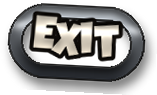
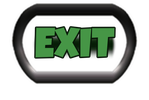
Menus: the game's own pill buttons, lit green when chosen instead of filled

diff --git a/host/src/frontend.cpp b/host/src/frontend.cpp
@@ -1,7 +1,7 @@
 // The window, the launcher and menus (RecompFrontend's recompui) and remappable
 // input (recompinput). Launcher design: a full-screen collage of the game's moments with the game's logo
 // over the middle, put together as the launcher opens (assets/poster, add_posters), and the menu on the
-// right, in orange and cream.
+// right, in the game menus' own pill rings.
 
 #include <algorithm>
 #include <array>
@@ -219,8 +219,8 @@ namespace {
     float ease_out_back(float t) { const float c = 1.7f, u = t - 1.0f; return 1.0f + (c + 1.0f) * u * u * u + c * u * u; }
 
     // The launcher's buttons in the game's own menu style (the pause and save menus' pill rings): each
-    // option's words are a picture (assets/menu, made by tools/launcher_art/make_buttons.py), lit (an
-    // orange-red ring) while pointed at or selected, a dark steel ring otherwise. The option's own text is
+    // option's words are a picture (assets/menu, made by tools/launcher_art/make_buttons.py), lit (the
+    // ring glowing green inside, the letters glowing) while pointed at or selected, the plain steel ring otherwise. The option's own text is
     // hidden but kept, so it still works the same way.
     struct MenuButton {
         recompui::GameOption* option = nullptr;
@@ -532,6 +532,16 @@ namespace {
             recompui::queue_image_from_bytes_file("?/conker/settings_bg", bytes);
             recompui::config::set_backdrop("?/conker/settings_bg");
         }
+        // The game's menu pill ring, plain and lit, in parts (RecompFrontend's ui_conker_look.h draws the settings'
+        // choices, tabs and buttons with them; tools/launcher_art/game_rings.py).
+        for (const char* part : { "on_l", "on_c", "on_r", "off_l", "off_c", "off_r" }) {
+            const std::string name = std::string("ring_") + part;
+            std::ifstream ring(recompui::file::get_asset_path(("menu/" + name + ".png").c_str()), std::ios::binary);
+            std::vector<char> ring_bytes((std::istreambuf_iterator<char>(ring)), std::istreambuf_iterator<char>());
+            if (!ring_bytes.empty()) {
+                recompui::queue_image_from_bytes_file("?/conker/" + name, ring_bytes);
+            }
+        }
         // Launcher Poster's pictures, for its description (settings.cpp launcher_poster_about).
         for (size_t i = 0; i < std::size(poster_folders); i++) {
             const std::string name = "poster_preview_" + std::to_string(i);
@@ -543,19 +553,19 @@ namespace {
         }
     }
 
-    // Conker's menu colours for the launcher and every menu (recompui's default is blue): orange-red for
+    // Conker's menu colours for the launcher and every menu (recompui's default is blue): the game menus' green for
     // what is chosen, gold letters (the settings' own pieces: RecompFrontend's ui_conker_look.h).
     void apply_theme() {
         using recompui::theme::color;
         auto set = recompui::theme::set_theme_color;
-        set(color::Primary, { 0xEE, 0x4E, 0x14, 0xFF });
-        set(color::PrimaryL, { 0xFF, 0x93, 0x2B, 0xFF });
-        set(color::PrimaryD, { 0xA8, 0x30, 0x08, 0xFF });
-        set(color::PrimaryA5, { 0xEE, 0x4E, 0x14, 0x0D });
-        set(color::PrimaryA20, { 0xEE, 0x4E, 0x14, 0x33 });
-        set(color::PrimaryA30, { 0xEE, 0x4E, 0x14, 0x4D });
-        set(color::PrimaryA50, { 0xEE, 0x4E, 0x14, 0x80 });
-        set(color::PrimaryA80, { 0xEE, 0x4E, 0x14, 0xCC });
+        set(color::Primary, { 0x3C, 0xA0, 0x1E, 0xFF });
+        set(color::PrimaryL, { 0x78, 0xDC, 0x3C, 0xFF });
+        set(color::PrimaryD, { 0x1E, 0x6E, 0x0A, 0xFF });
+        set(color::PrimaryA5, { 0x3C, 0xA0, 0x1E, 0x0D });
+        set(color::PrimaryA20, { 0x3C, 0xA0, 0x1E, 0x33 });
+        set(color::PrimaryA30, { 0x3C, 0xA0, 0x1E, 0x4D });
+        set(color::PrimaryA50, { 0x3C, 0xA0, 0x1E, 0x80 });
+        set(color::PrimaryA80, { 0x3C, 0xA0, 0x1E, 0xCC });
         set(color::TextActive, cream);
         set(color::Text, { 0xF0, 0xD4, 0x8A, 0xFF });
         set(color::TextA5, { 0xF0, 0xD4, 0x8A, 0x0D });
@@ -564,7 +574,7 @@ namespace {
         set(color::TextA50, { 0xF0, 0xD4, 0x8A, 0x80 });
         set(color::TextA80, { 0xF0, 0xD4, 0x8A, 0xCC });
         set(color::TextDim, { 0xC9, 0xAE, 0x6E, 0xFF });
-        set(color::Elevated, { 0xF0, 0x7A, 0x1E, 0x38 });
+        set(color::Elevated, { 0x5A, 0xC8, 0x32, 0x30 });
         set(color::Background1, { 0x0B, 0x06, 0x04, 0xFF });
     }
 

diff --git a/tools/launcher_art/make_buttons.py b/tools/launcher_art/make_buttons.py
@@ -1,24 +1,54 @@
-# Makes the launcher's button pictures in the game's own menu style (conker_ui.py, the soft palette):
-# host/assets/menu/<name>_on.png (chosen) and <name>_off.png, at the poster's scale (2560x1440).
+# Makes the launcher's button pictures from the game's own menu pill (game_rings.py's parts: the steel ring, lit green
+# with a glow inside when chosen) and the game's font: host/assets/menu/<name>_on.png (chosen: bright letters glowing,
+# the ring lit) and <name>_off.png (the plain ring, green letters). As in the game's menus, nothing fills the ring.
 #   .venv/bin/python tools/launcher_art/make_buttons.py
-import os, sys
-sys.path.insert(0, os.path.dirname(__file__))
-import conker_ui
-conker_ui.use('soft')
-out = os.path.join(os.path.dirname(__file__), '..', '..', 'host', 'assets', 'menu')
-os.makedirs(out, exist_ok=True)
+import os
+from PIL import Image, ImageDraw, ImageFont, ImageFilter
+
+here = os.path.dirname(__file__)
+out = os.path.join(here, '..', '..', 'host', 'assets', 'menu')
+font = ImageFont.truetype(os.path.join(here, '..', '..', 'host', 'assets', 'LuckiestGuy-Regular.ttf'), 150)
 labels = {
     'start_game': 'START GAME', 'load_rom': 'LOAD ROM', 'controls': 'CONTROLS', 'settings': 'SETTINGS',
     'mods': 'MODS', 'exit': 'EXIT', 'change_rom': 'CHANGE ROM',
     'rom_original': 'ROM: ORIGINAL', 'rom_uncensored': 'ROM: UNCENSORED', 'rom_french': 'ROM: FRENCH',
     'rom_german': 'ROM: GERMAN', 'rom_russian': 'ROM: RUSSIAN', 'rom_modified': 'ROM: MODIFIED',
 }
-order = ['start_game', 'controls', 'settings', 'mods', 'rom_original', 'exit']
-for i, (name, text) in enumerate(labels.items()):
-    row = order.index(name) if name in order else {'load_rom': 0, 'change_rom': 4}.get(name, 4)
-    tilt = -3 if row % 2 else 2
+work_height = 360  # drawn at this height, saved at the pictures' size
+picture_height = 100
+on_letters, on_outline, on_glow = (205, 255, 95, 255), (15, 60, 10, 255), (120, 255, 40, 210)
+off_letters, off_outline = (70, 150, 70, 255), (8, 25, 8, 255)
+
+
+def ring(state, width):
+    parts = [Image.open(os.path.join(out, f'ring_{state}_{p}.png')).convert('RGBA') for p in 'lcr']
+    scale = work_height / parts[0].height
+    left, middle, right = (p.resize((max(1, round(p.width * scale)), work_height), Image.LANCZOS) for p in parts)
+    out_im = Image.new('RGBA', (width, work_height))
+    out_im.paste(left, (0, 0))
+    out_im.paste(middle.resize((width - left.width - right.width, work_height)), (left.width, 0))
+    out_im.paste(right, (width - right.width, 0))
+    return out_im
+
+
+def button(text, on):
+    measure = ImageDraw.Draw(Image.new('RGBA', (1, 1)))
+    text_width = measure.textlength(text, font=font)
+    im = ring('on' if on else 'off', int(text_width + 250))
+    layer = Image.new('RGBA', im.size, (0, 0, 0, 0))
+    x, y = (im.width - text_width) / 2, im.height / 2 - 80
+    if on:
+        glow = Image.new('RGBA', im.size, (0, 0, 0, 0))
+        ImageDraw.Draw(glow).text((x, y), text, font=font, fill=on_glow)
+        glow = glow.filter(ImageFilter.GaussianBlur(14))
+        layer = Image.alpha_composite(Image.alpha_composite(layer, glow), glow)
+    ImageDraw.Draw(layer).text((x, y), text, font=font, fill=on_letters if on else off_letters,
+                               stroke_width=5, stroke_fill=on_outline if on else off_outline)
+    im = Image.alpha_composite(im, layer)
+    return im.resize((round(im.width * picture_height / im.height), picture_height), Image.LANCZOS)
+
+
+for name, text in labels.items():
     for state in ('on', 'off'):
-        im = conker_ui.button(text, 46, state == 'on', seed=row + 3, tilt=tilt)
-        im = im.crop(im.getbbox())
-        im.save(os.path.join(out, f'{name}_{state}.png'), optimize=True)
+        button(text, state == 'on').save(os.path.join(out, f'{name}_{state}.png'), optimize=True)
 print('made', len(labels) * 2, 'pictures in', os.path.normpath(out))

diff --git a/tools/launcher_art/game_rings.py b/tools/launcher_art/game_rings.py
@@ -1,0 +1,25 @@
+# Cuts the game's own menu pill (the PLAY / QUIT ring of the save and pause menus) into parts the menus are built
+# from: host/assets/menu/ring_<on|off>_<l|c|r>.png, left end, a middle to stretch (8 pixels, the same column repeated, so filtering doesn't pick up a
+# neighbour), and the right end (the
+# left end mirrored). "on" is the lit ring (the chosen item: green glow inside the ring), "off" the plain steel one.
+# Taken from the HD Icons pack's pieces (textures by GameBeast92, modified, CC BY 4.0: see README), whose letters
+# start past these columns.
+#   .venv/bin/python tools/launcher_art/game_rings.py LIT.png UNLIT.png
+#   (icons_work/mixed/2facfe3d50c12376.png, the lit "QU"; icons_work/mixed/9cbab0c6bdc643cd.png, the plain "QU")
+import os, sys
+from PIL import Image, ImageOps
+
+out = os.path.join(os.path.dirname(__file__), '..', '..', 'host', 'assets', 'menu')
+height = 96  # the parts' height; menus scale them to the button's
+for state, path, cap in (('on', sys.argv[1], 112), ('off', sys.argv[2], 128)):
+    src = Image.open(path).convert('RGBA').crop((0, 0, 384, 360))
+    bbox = src.getbbox()
+    src = src.crop((0, bbox[1], 384, bbox[3]))
+    scale = height / src.height
+    left = src.crop((0, 0, cap, src.height)).resize((round(cap * scale), height), Image.LANCZOS)
+    middle = src.crop((cap, 0, cap + 1, src.height)).resize((1, height), Image.LANCZOS).resize((8, height))
+    left.save(os.path.join(out, f'ring_{state}_l.png'), optimize=True)
+    middle.save(os.path.join(out, f'ring_{state}_c.png'), optimize=True)
+    ImageOps.mirror(left).save(os.path.join(out, f'ring_{state}_r.png'), optimize=True)
+    print(state, left.size)
+

diff --git a/README.md b/README.md
@@ -226,7 +226,7 @@ Made by **dahmedvall95**, built on the work of:
 * [N64Recomp, N64ModernRuntime and RecompFrontend](https://github.com/N64Recomp) by Wiseguy and contributors.
 * [RT64](https://github.com/rt64/rt64) by Darío and contributors, the renderer.
 * [GameBeast92's 4K Ultimate Texture Pack](https://github.com/GameBeast92/Conker-s-Bad-Fur-Day-4k-Ultimate-Texture-Pack)
-  (CC BY 4.0), behind the HD Icons pack.
+  (CC BY 4.0), behind the HD Icons pack and the menus' pill buttons (modified).
 * **Corrigo** and **Djipi** ([emulation64.fr](http://www.emulation64.fr/)) for the French translation, used with
   permission.
 * The [Conker Wiki](https://conker.fandom.com/) for some of the N64 screenshots in the launcher's posters.
